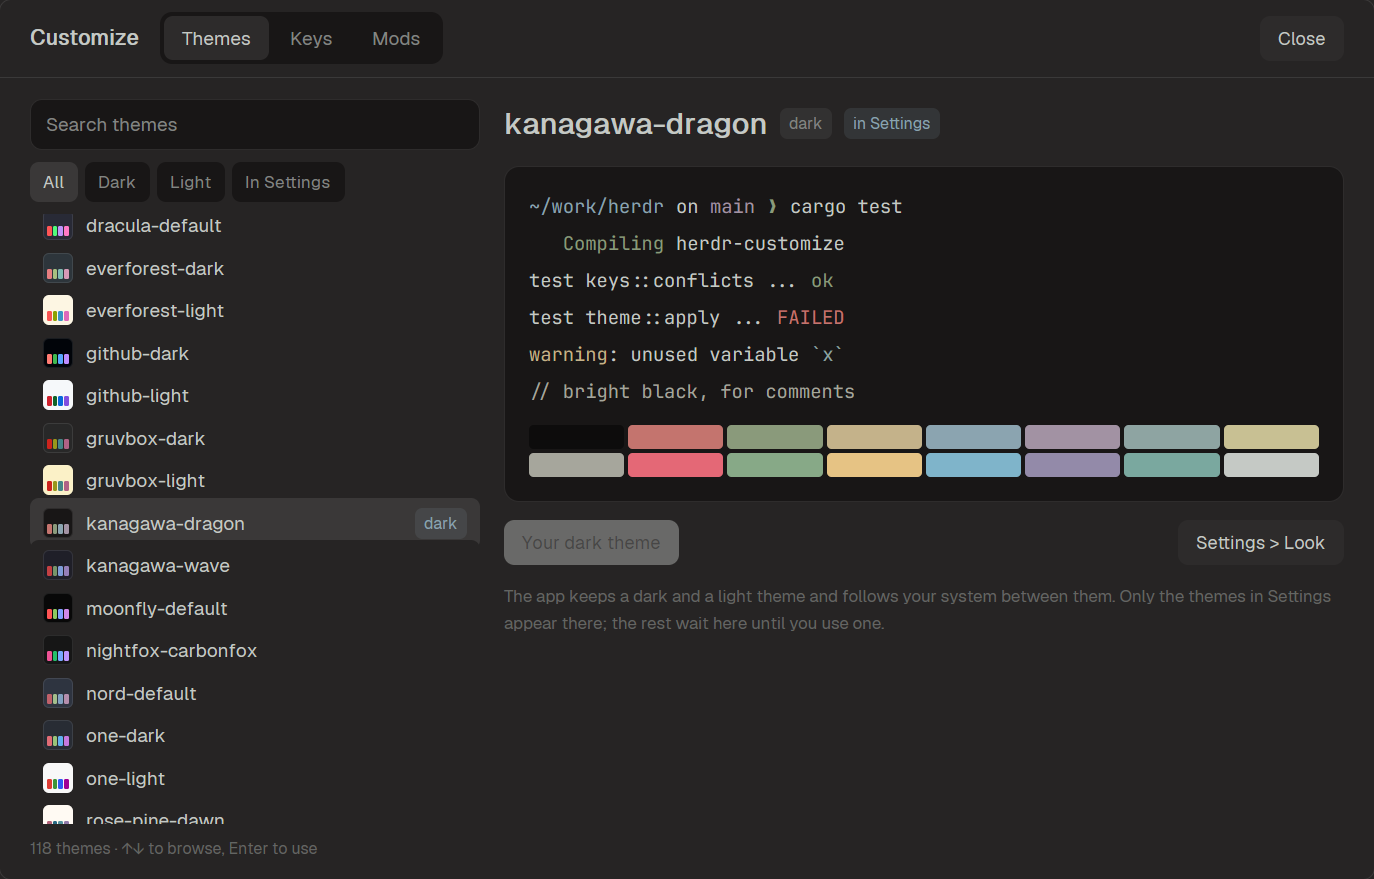
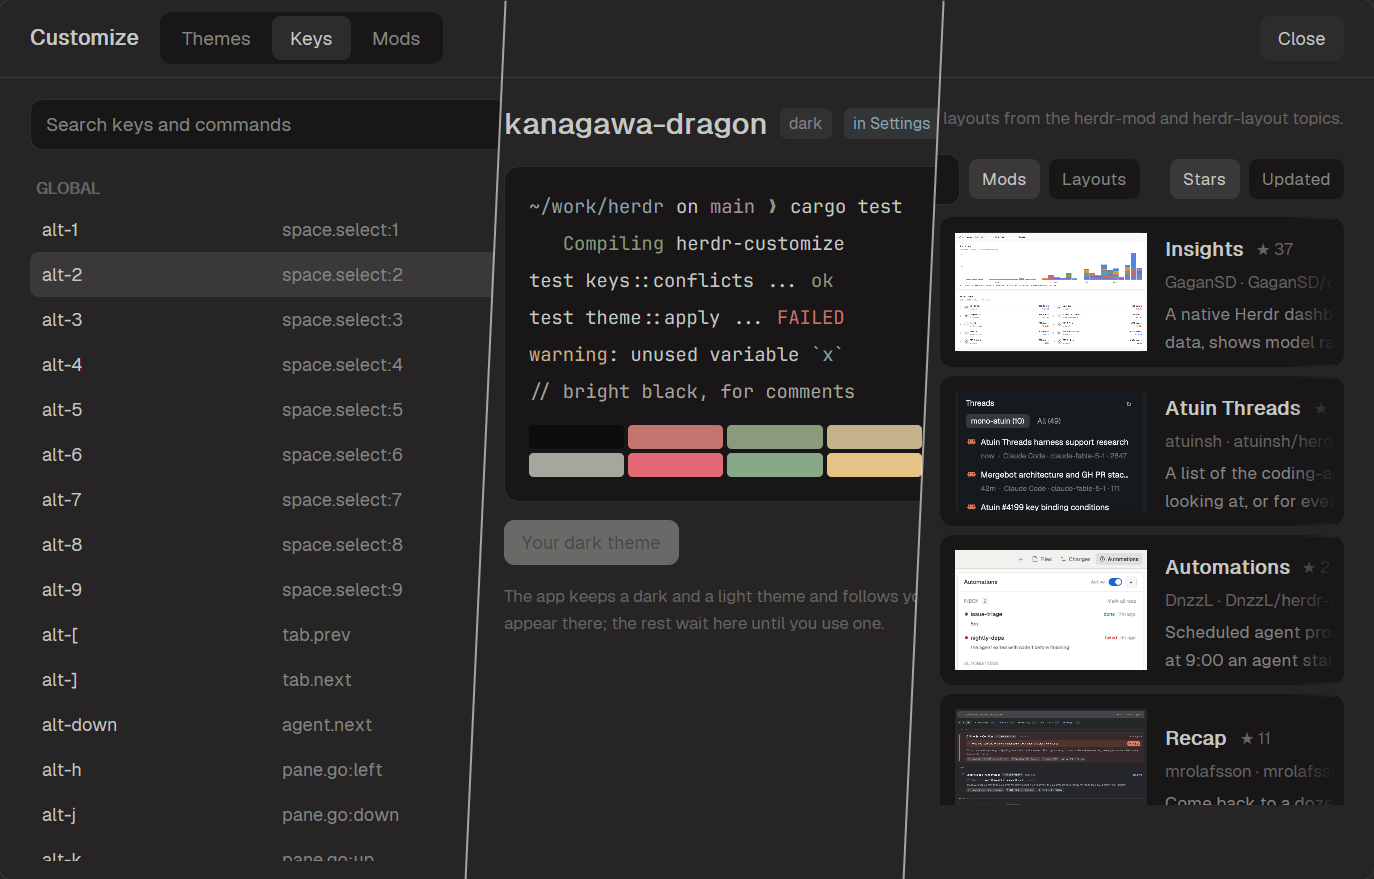
docs(app): preview all three pages and say what the mod does for you
herdr.dev's Mods page shows a package's preview.png and the recipe's
first paragraph. The preview showed only Themes, and the paragraph
described the screen's layout rather than what it saves people: editing
config files by hand.

diff --git a/app/RECIPE.md b/app/RECIPE.md
@@ -1,11 +1,10 @@
 # Customize
 
-A screen over the Herdr app, on **ctrl+shift+y** (**cmd+shift+y** on macOS),
-with three pages: every palette as a theme with a preview, the app's keys
-with a form to change them, and mods and layouts from GitHub with a review
-before anything is installed.
+Customize Herdr from one screen on **ctrl+shift+y** (**cmd+shift+y** on
+macOS): pick a theme with a live preview, change your keybindings, and find,
+review and install mods and layouts from GitHub. No config files to edit.
 
-![Customize](preview.png)
+![Customize: the Themes, Keys and Mods pages](preview.png)
 
 ## Before you add it
 

diff --git a/app/README.md b/app/README.md
@@ -1,9 +1,8 @@
 # Customize for the Herdr app
 
-A screen over the Herdr app, on **ctrl+shift+y** (**cmd+shift+y** on
-macOS). It has three pages: every palette as a theme with a preview, the
-app's keys with a form to change them, and mods and layouts from GitHub,
-with a review before anything is installed.
+Customize Herdr from one screen on **ctrl+shift+y** (**cmd+shift+y** on
+macOS): pick a theme with a live preview, change your keybindings, and find,
+review and install mods and layouts from GitHub. No config files to edit.
 
 | Themes | Keys | Mods |
 | --- | --- | --- |
